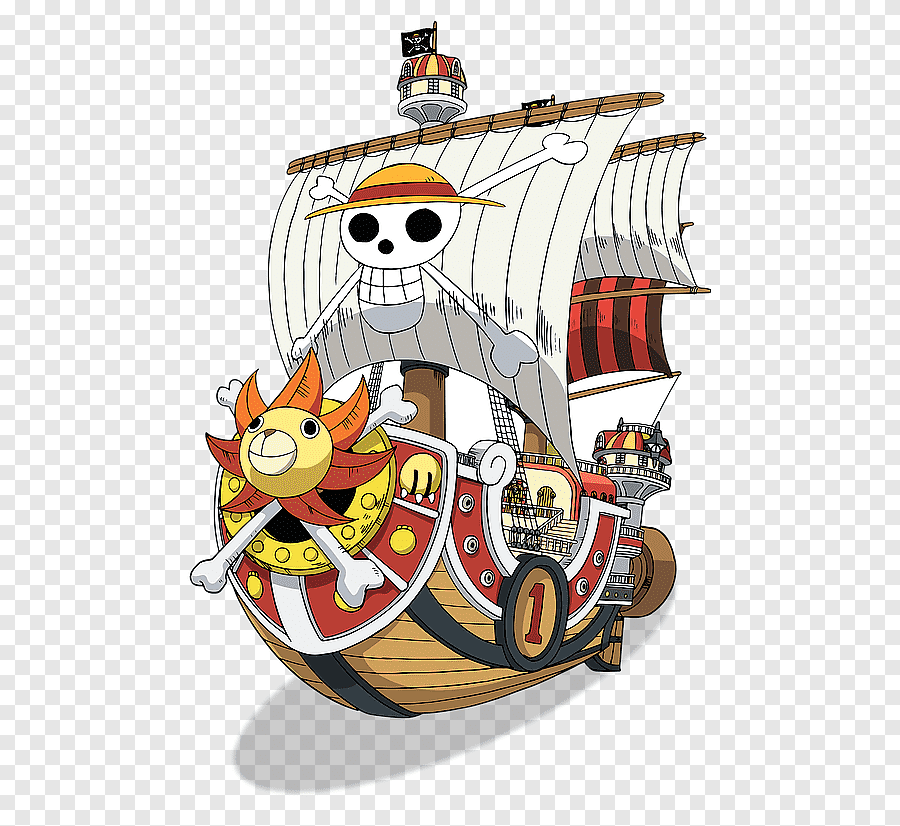
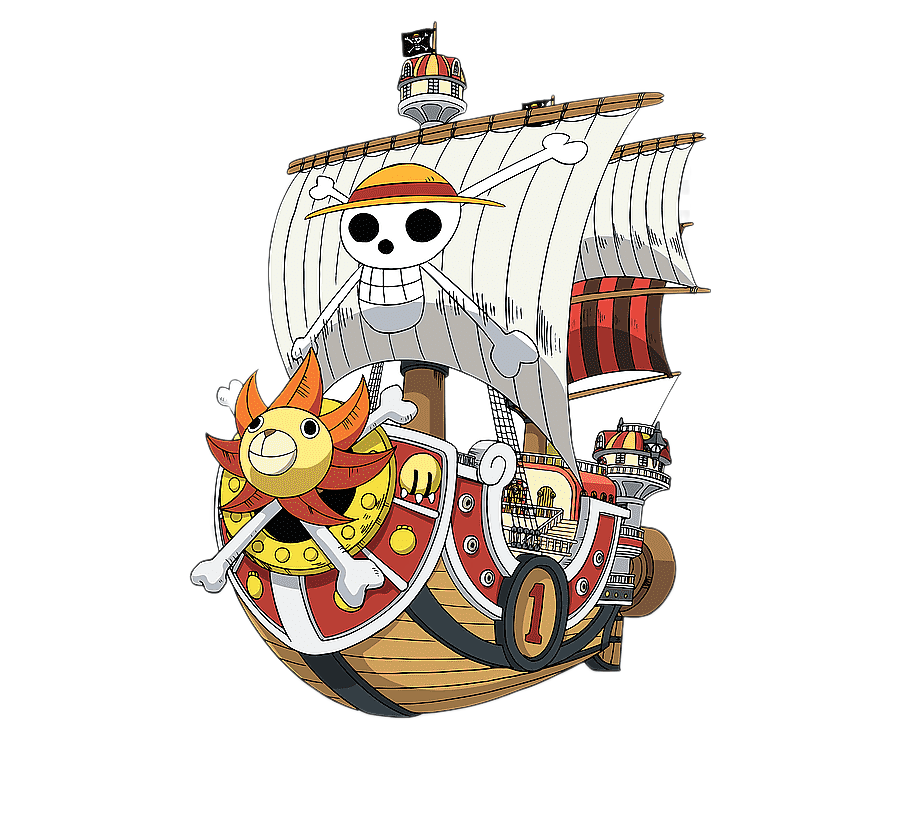
piccole modifiche

diff --git a/index.js b/index.js
@@ -110,3 +110,70 @@ window.step = function() {
 };
 
 step();
+
+
+////////////////APPARIZIONE DELLA SUNNY/////////////////////
+
+
+document.addEventListener("DOMContentLoaded", function () {
+  const container = document.querySelector(".container");
+  const button = document.getElementById("myButton");
+  const img = document.querySelector(".thousand-sunny");
+  img.style.display = "none";
+
+  button.addEventListener("click", function () {
+      container.style.background = "white";
+      document.querySelector("#world").style.display = "none";
+      document.querySelector("h1").style.display = "none";
+      document.querySelector("#myButton").style.display = "none";
+
+      const img = document.querySelector(".thousand-sunny");
+      img.style.display = "block";
+      img.style.position = "absolute";
+      img.style.top = "50%";
+      img.style.left = "50%";
+      img.style.transform = "translate(-50%, -50%)";
+      img.style.opacity = 0; 
+
+      const onda = document.querySelector(".onda");
+      onda.style.display = "block";
+      onda.style.position = "absolute";
+      onda.style.top = "70%";
+      onda.style.left = "50%";
+      onda.style.transform = "translateX(-50%)";
+      onda.style.opacity = 0;
+      
+      const duration = 5000;
+
+      const interval = 100;
+
+      let startTime = null;
+      let currentTime;
+
+      function updateOpacity(timestamp) {
+        if (!startTime) {
+            startTime = timestamp;
+        }
+
+        currentTime = timestamp - startTime;
+        const progress = currentTime / duration;
+
+        if (progress < 1) {
+            img.style.opacity = progress;
+            onda.style.opacity = progress;
+            requestAnimationFrame(updateOpacity);
+        } else {
+            img.style.opacity = 1;
+            onda.style.opacity = 1;
+        }
+    }
+
+    requestAnimationFrame(updateOpacity);
+
+    setTimeout(function () {
+        window.location.href = "Landing.html";
+    }, duration);
+
+  });
+});
+

diff --git a/index.css b/index.css
@@ -1,8 +1,60 @@
-html, body {
-    margin: 0;
-    padding: 0;
-    width: 100%;
-    height: 100%;
-    overflow: hidden;
-    background: #ffffff;
-  }
+body {
+  margin: 0;
+  padding: 0;
+  overflow: hidden;
+}
+
+.container {
+  position: relative;
+  width: 100%;
+  height: 100vh;
+  overflow: hidden;
+}
+
+#world {
+  position: absolute;
+  z-index: 1;
+  top: 0;
+  left: 0;
+}
+
+.thousand-sunny {
+  position: absolute;
+  z-index: 2;
+  top: 0;
+  left: 0;
+  /* display: none; */
+}
+
+.onda{
+  display: none;
+}
+
+h1 {
+  position: absolute;
+  z-index: 3;
+  top: 50%;
+  left: 50%;
+  transform: translate(-50%, -50%);
+}
+
+
+#myButton {
+  position: absolute;
+  z-index: 3;
+  background-image: linear-gradient(#0dccea, #0d70ea);
+  border: 0;
+  border-radius: 4px;
+  box-shadow: rgba(0, 0, 0, .3) 0 5px 15px;
+  box-sizing: border-box;
+  color: #fff;
+  cursor: pointer;
+  font-family: Montserrat,sans-serif;
+  font-size: .9em;
+  margin: 5px;
+  padding: 10px 15px;
+  text-align: center;
+  user-select: none;
+  -webkit-user-select: none;
+  touch-action: manipulation;
+}

diff --git a/Index.html b/Index.html
@@ -1,13 +1,21 @@
 <!DOCTYPE html>
 <html>
 <head>
-	<title>Malubutu</title>
-	<meta charset="utf-8">
-	<link rel="stylesheet" type="text/css" href="index.css">
+    <title>Malubutu</title>
+    <meta charset="utf-8">
+    <link rel="stylesheet" type="text/css" href="index.css">
+	<link rel="icon" href="./images/blue-dragon-icon-20.png" type="image/x-icon">
 </head>
 <body>
-    <canvas id="world"></canvas>
+    <div class="container">
+        <canvas id="world"></canvas>
+        <h1>Auguri</h1>
+        <img class="thousand-sunny" src="./images/thousand-sunny.png" alt="thousand-sunny">
+		<img class="onda" src="./images/onde.png" alt="onde">
+		<button id="myButton" role="button">Verso il Grande Blu</button>
+    </div>
     <script src="index.js"></script>
-	<img src="images/thousand-sunny.png" alt="thousand-sunny">
 </body>
 </html>
+
+

diff --git a/Landing.html b/Landing.html
@@ -19,14 +19,14 @@
             <div class="button__drow1"></div>
             <div class="button__drow2"></div>
         </a>
-        <a href="raccolta-butu/Pazzo.html" class="button type--B">
+        <a href="./raccolta-butu/Pazzo.html" class="button type--B">
             <div class="button__line"></div>
             <div class="button__line"></div>
             <span class="button__text">Stalkerutu</span>
             <div class="button__drow1"></div>
             <div class="button__drow2"></div>
         </a>
-        <a href="raccolta-butu/Possedutu.html" class="button type--C">
+        <a href="./raccolta-butu/Possedutu.html" class="button type--C">
             <div class="button__line"></div>
             <div class="button__line"></div>
             <span class="button__text">Possedutu</span>
